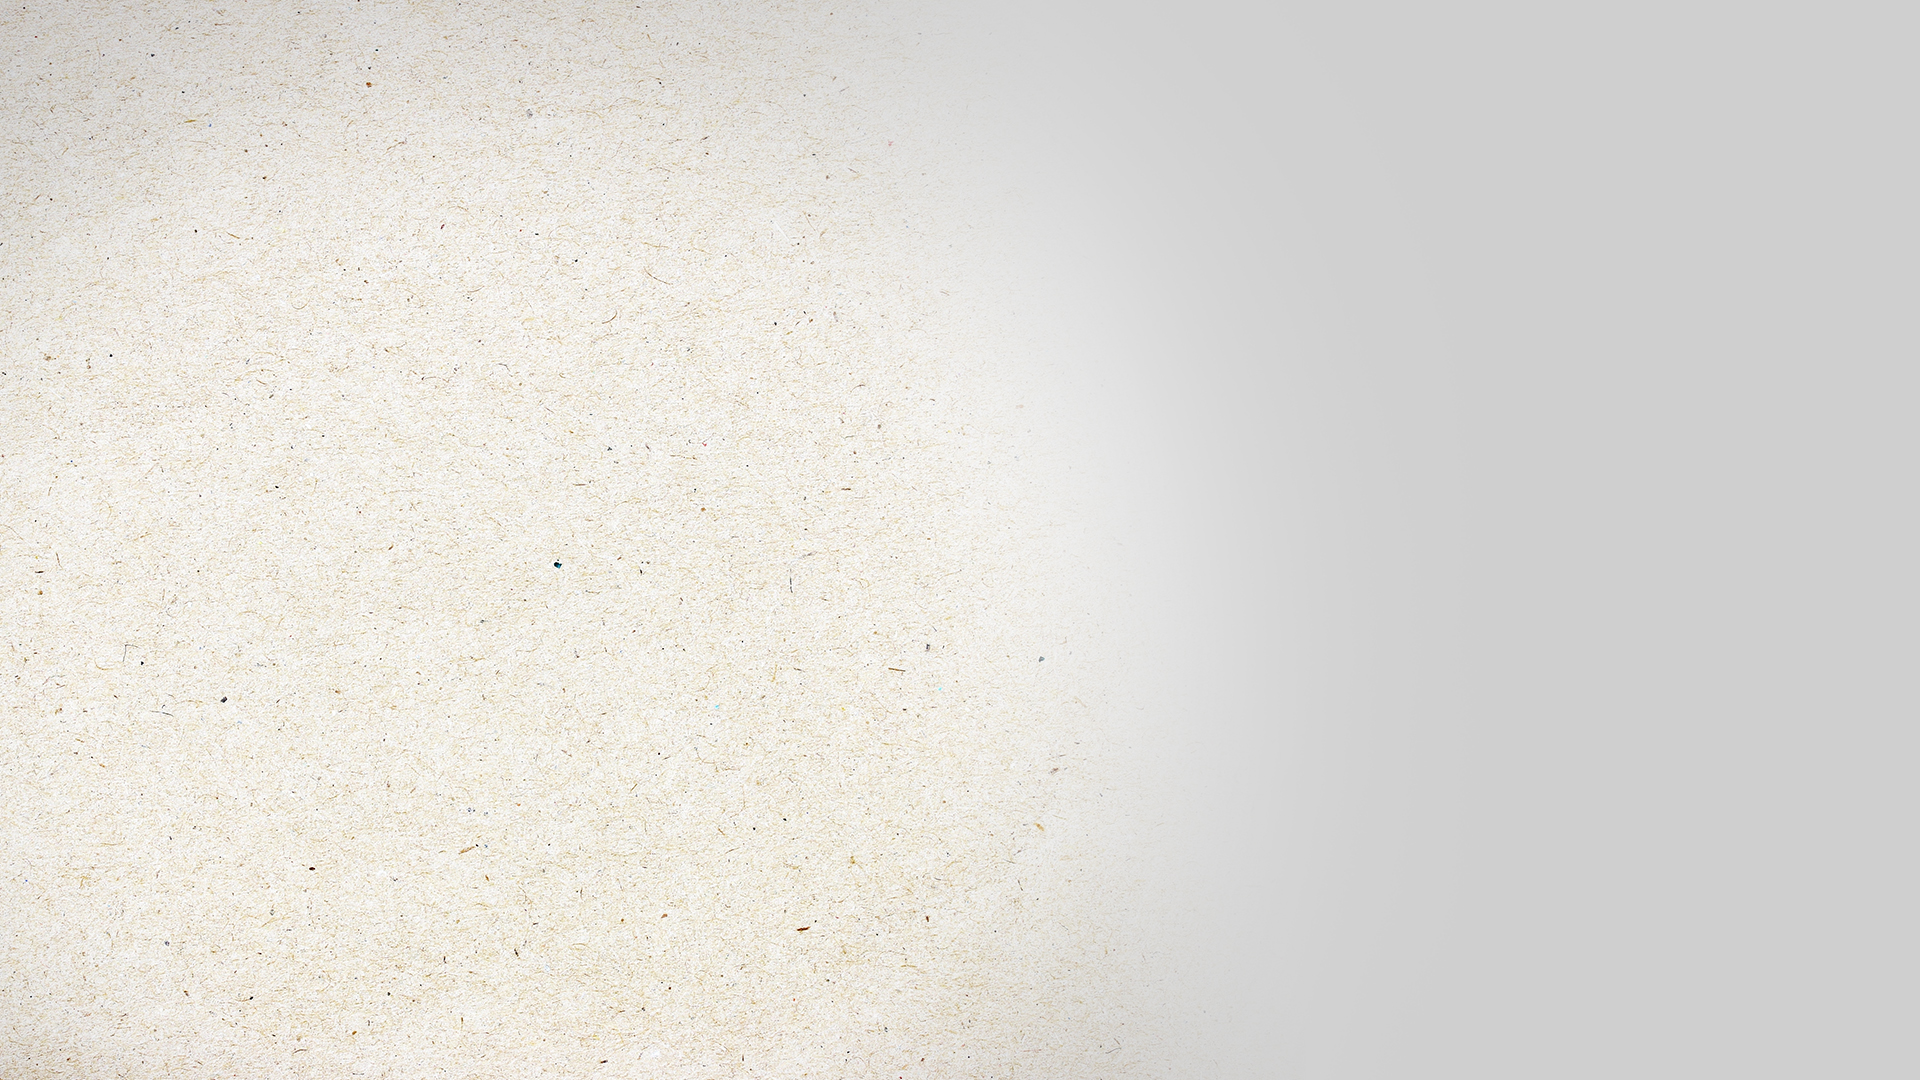
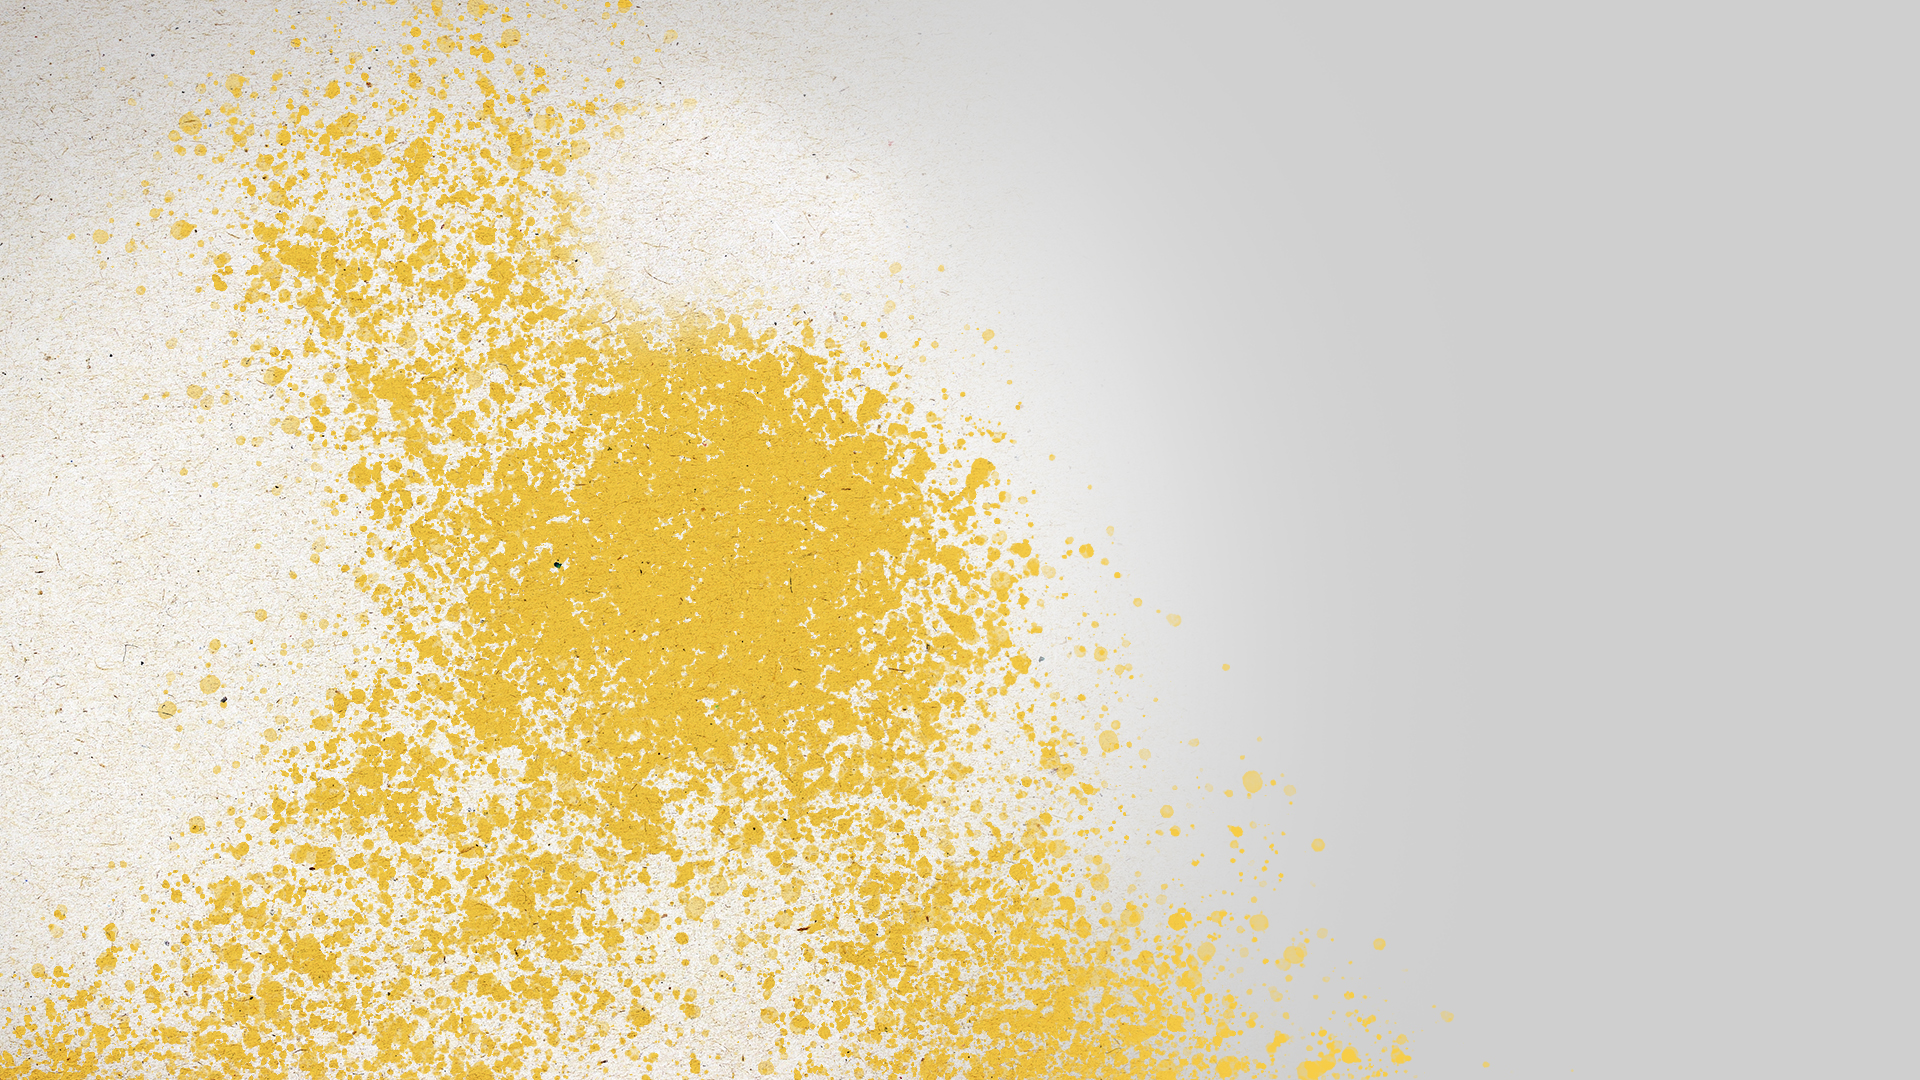
edit bg

diff --git a/public/frontend/css/homepage2.css b/public/frontend/css/homepage2.css
@@ -91,7 +91,17 @@ section#first {
 	padding-bottom: 4rem;
 }
 
+#first {
+	background-position: center;
+    background-repeat: no-repeat;
+    background-size: cover;
+}
+
 @media (max-width: 992px) {
+	#first {
+		background-position:left;
+	}
+
 	.logo {
 		margin: 5px 20px;
 	}
@@ -147,17 +157,17 @@ img.coin2 {
 	z-index: 1;
 }
 
-section#users img.coin1 {
+#users img.coin1 {
 	position: absolute;
 	top: -20px;
-	right: 80px;
+	right: 200px;
 	width: 110px;
 	z-index: 1;
 }
 
-section#users img.coin2 {
+#users img.coin2 {
 	bottom: 0px;
-	left: 70px;
+	left: 200px;
 	width: 110px;
 }
 
@@ -178,6 +188,48 @@ section#users img.coin2 {
 	opacity: 1;
 }
 
+@media (max-width: 1199px) {
+	#users img.coin1 {
+		top: -20px;
+		right: 120px;
+		width: 110px;
+	}
+
+	#users img.coin2 {
+		bottom: 0px;
+		left: 120px;
+		width: 110px;
+	}
+}
+
+@media (max-width: 769px) {
+	#users img.coin1 {
+		top: -20px;
+		right: 80px;
+		width: 110px;
+	}
+
+	#users img.coin2 {
+		bottom: 0px;
+		left: 80px;
+		width: 110px;
+	}
+}
+
+@media (max-width: 575px) {
+	#users img.coin1 {
+		top: -10px;
+		right: 10px;
+		width: 100px;
+	}
+
+	#users img.coin2 {
+		bottom: 0px;
+		left: 20px;
+		width: 100px;
+	}
+}
+
 @media (max-width: 992px) {
 
 	.line-border {
@@ -194,18 +246,6 @@ section#users img.coin2 {
 		bottom: -50px;
 		left: 0px;
 		width: 120px;
-	}
-
-	section#users img.coin1 {
-		top: -10px;
-		right: 20px;
-		width: 100px;
-	}
-
-	section#users img.coin2 {
-		bottom: 0px;
-		left: 20px;
-		width: 100px;
 	}
 
     .fs-title-registrasi_form {

diff --git a/resources/views/frontend/homepage.blade.php b/resources/views/frontend/homepage.blade.php
@@ -15,14 +15,14 @@
 
 @section('content')
 
-      <section id="first" class="bg-100 section-has-bg" style="background-image: url({{ asset('frontend/images/webp/background2.webp') }});" >
+      <section id="first" class="bg-100 section-has-bg" style="background-image: url({{ asset('frontend/images/webp/background.webp') }});" >
         <div class="mb-5 d-flex flex-row justify-content-between">
             <a class="logo" href="#"><img src="{{ asset('frontend/images/webp/kominfo.webp') }}" alt="" width="50" /></a>
             <a class="logo" href="#"><img src="{{ asset('frontend/images/webp/IOH-logo.webp') }}" alt="" width="120" /></a>
         </div>
         <div class="container-lg mb-5">
           <div class="row align-items-center">
-              <div class="col-12 col-md-7 mb-5 h-100">
+              <div class="col-12 col-sm-7 mb-5 h-100">
                   <img class="mb-3" src="{{ asset('frontend/images/webp/generasi-anti-judol.webp') }}" alt="" width="100%" loading="lazy" /> 
                   <div class="fs-generasi-anti-judol mt-3">
                   <p class="text-grey indosat_medium"> Generasi Anti Judi Online hadir sebagai platform untuk melaporkan dan memberantas aktivitas judi online yang merusak generasi bangsa. <span class="new-line"></span>Melalui situs ini, kami mengajak semua lapisan masyarakat untuk berpartisipasi aktif dalam menjaga masa depan yang lebih bersih dan aman bagi anak-anak muda Indonesia.
@@ -32,7 +32,7 @@
            
               </div>
             
-              <div class="col-12 col-md-5 mb-3 position-relative">
+              <div class="col-12 col-sm-5 mb-3 position-relative">
                 <img src="{{ asset('frontend/images/webp/koin1.webp') }}" class="coin1" alt="koin1" />
                 <img src="{{ asset('frontend/images/webp/koin2.webp') }}" class="coin2" alt="koin1" />
                 <div class="form">
@@ -85,24 +85,18 @@
           </div>
         </div>
 
-      </section>
 
-
-      <!-- ============================================-->
-      <!-- <section> Result ============================-->
-      <section class="bg-100 py-7 section-has-bg" style="background-image: url({{ asset('frontend/images/webp/background1.webp') }});" id="users">
-
-        <div class="container-lg">
+        <div class="container-lg py-7" id="users">
           <div class="row justify-content-center">
             <div class="col-md-12 col-lg-12 text-center mb-4">
               <h2 class="text-grey indosat_bold fs-title-total-partisipan">Angka Total Partisipan</h2>
-              <img class="mb-3" src="{{ asset('frontend/images/webp/generasi-anti-judol.webp') }}" alt="" width="80%" loading="lazy" /> 
+              <img class="mb-3" src="{{ asset('frontend/images/webp/generasi-anti-judol.webp') }}" alt="" width="70%" loading="lazy" /> 
             </div>
           </div>
           <div class="row justify-content-center text-white position-relative">
             <img src="{{ asset('frontend/images/webp/koin1.webp') }}" class="coin1" alt="koin1" />
             <img src="{{ asset('frontend/images/webp/koin2.webp') }}" class="coin2" alt="koin1" />
-            <div class="col-md-10 col-10 p-col-mobile-desktop">
+            <div class="col-sm-8 col-10 p-col-mobile-desktop">
               <div class="card h-60 bg-total-partisipan">
                 <div class="card-body d-flex flex-column justify-content-around mx-auto text-center">
                     <div class="my-3 my-sm-1 d-flex flex-row bd-highlight" id="totalSubmission">
@@ -125,7 +119,7 @@
       <!-- ============================================-->
       <!-- <section> Activity  ============================-->
 
-      <section class="bg-100 py-3 section-has-bg" style="background-image: url({{ asset('frontend/images/webp/background2.webp') }});">
+      <section class="bg-100 py-3 section-has-bg" style="background-image: url({{ asset('frontend/images/webp/background1.webp') }});">
 
         <div class="container-lg mt-2 py-7">
           <div class="row text-center justify-content-center text-white p-2">

diff --git a/app/Http/Controllers/Frontend/HomeController.php b/app/Http/Controllers/Frontend/HomeController.php
@@ -14,7 +14,7 @@ class HomeController extends Controller
     public function index()
     {   
         $totalSubmission = Participant::all()->count();  
-        // $totalSubmission = 9999;
+        // $totalSubmission = 10000;
         $numbers = str_split((string)$totalSubmission);   
         return view('frontend.homepage', compact('numbers'));
     }
